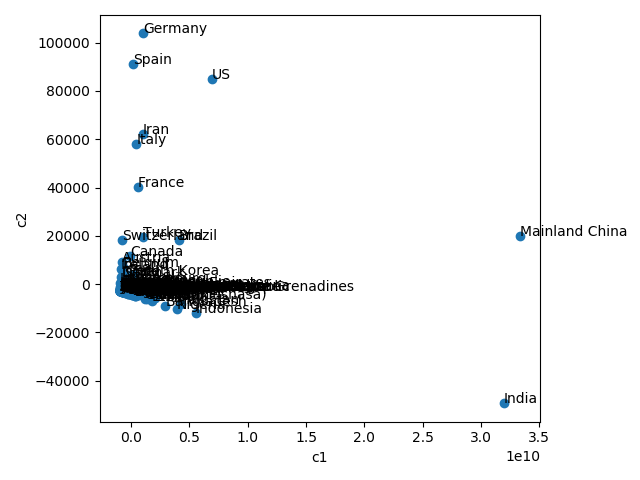
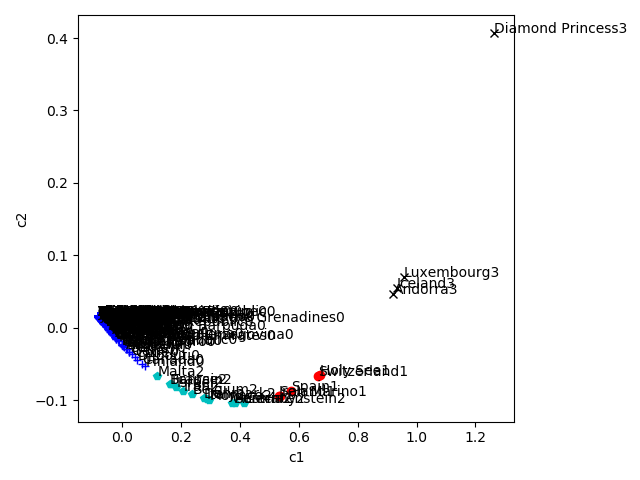
kmeans working. Never go on the diamond princess.

diff --git a/joshua/p3/main.py b/joshua/p3/main.py
@@ -3,6 +3,8 @@ from sklearn.decomposition import PCA
 import matplotlib.pyplot as plt
 import utils
 import numpy as np
+from sklearn.cluster import KMeans
+from sklearn.preprocessing import normalize
 
 
 
@@ -21,27 +23,24 @@ pop = np.matrix(pops.to_numpy(dtype=np.float32).flatten())
 X[:,:-1] = pop.T
 
 N, D = X.shape
-
-'''for i in range(N):
-    print(X[i, :])
-    np.divide(X[i, :], pop[i])
-    print(X[i, :])
-
-print(X)
-'''
-#for i in range(N):
-    #data[i, :] = data[i, :].div(pops[]) 
+X = normalize(X, axis=0)
+X = normalize(X, axis=1)
 
 pcaS = PCA(n_components = 2).fit(X)
 pca = pcaS.transform(X)
 
+
+kmeans = KMeans(n_clusters=4, random_state=0).fit(pca)
+
 plt.figure()
-plt.scatter(pca[:, 0], pca[:, 1])
+#plt.scatter(pca[:, 0], pca[:, 1])
+for i in range(N):
+    plt.plot(pca[i, 0], pca[i, 1], utils.clusterToMarker(kmeans.labels_[i]))
 plt.xlabel("c1")
 plt.ylabel("c2")
 
 
 for i in range(N):
-    plt.annotate(labels[i], (pca[i, 0], pca[i, 1]))
+    plt.annotate(labels[i] + str(kmeans.labels_[i]), (pca[i, 0], pca[i, 1]))
 
 utils.savefig('pca1.png')

diff --git a/joshua/p3/utils.py b/joshua/p3/utils.py
@@ -7,3 +7,12 @@ def savefig(fname, verbose=True):
     plt.savefig(path)
     if verbose:
         print("Figure saved as '{}'".format(path))
+
+
+def clusterToMarker(cluster):
+    c2m = ["b+", "ro", "cp", "kx", "gs"]
+    if (cluster >= len(c2m)):
+        #out of range, return default
+        return "y2"
+
+    return c2m[cluster]
